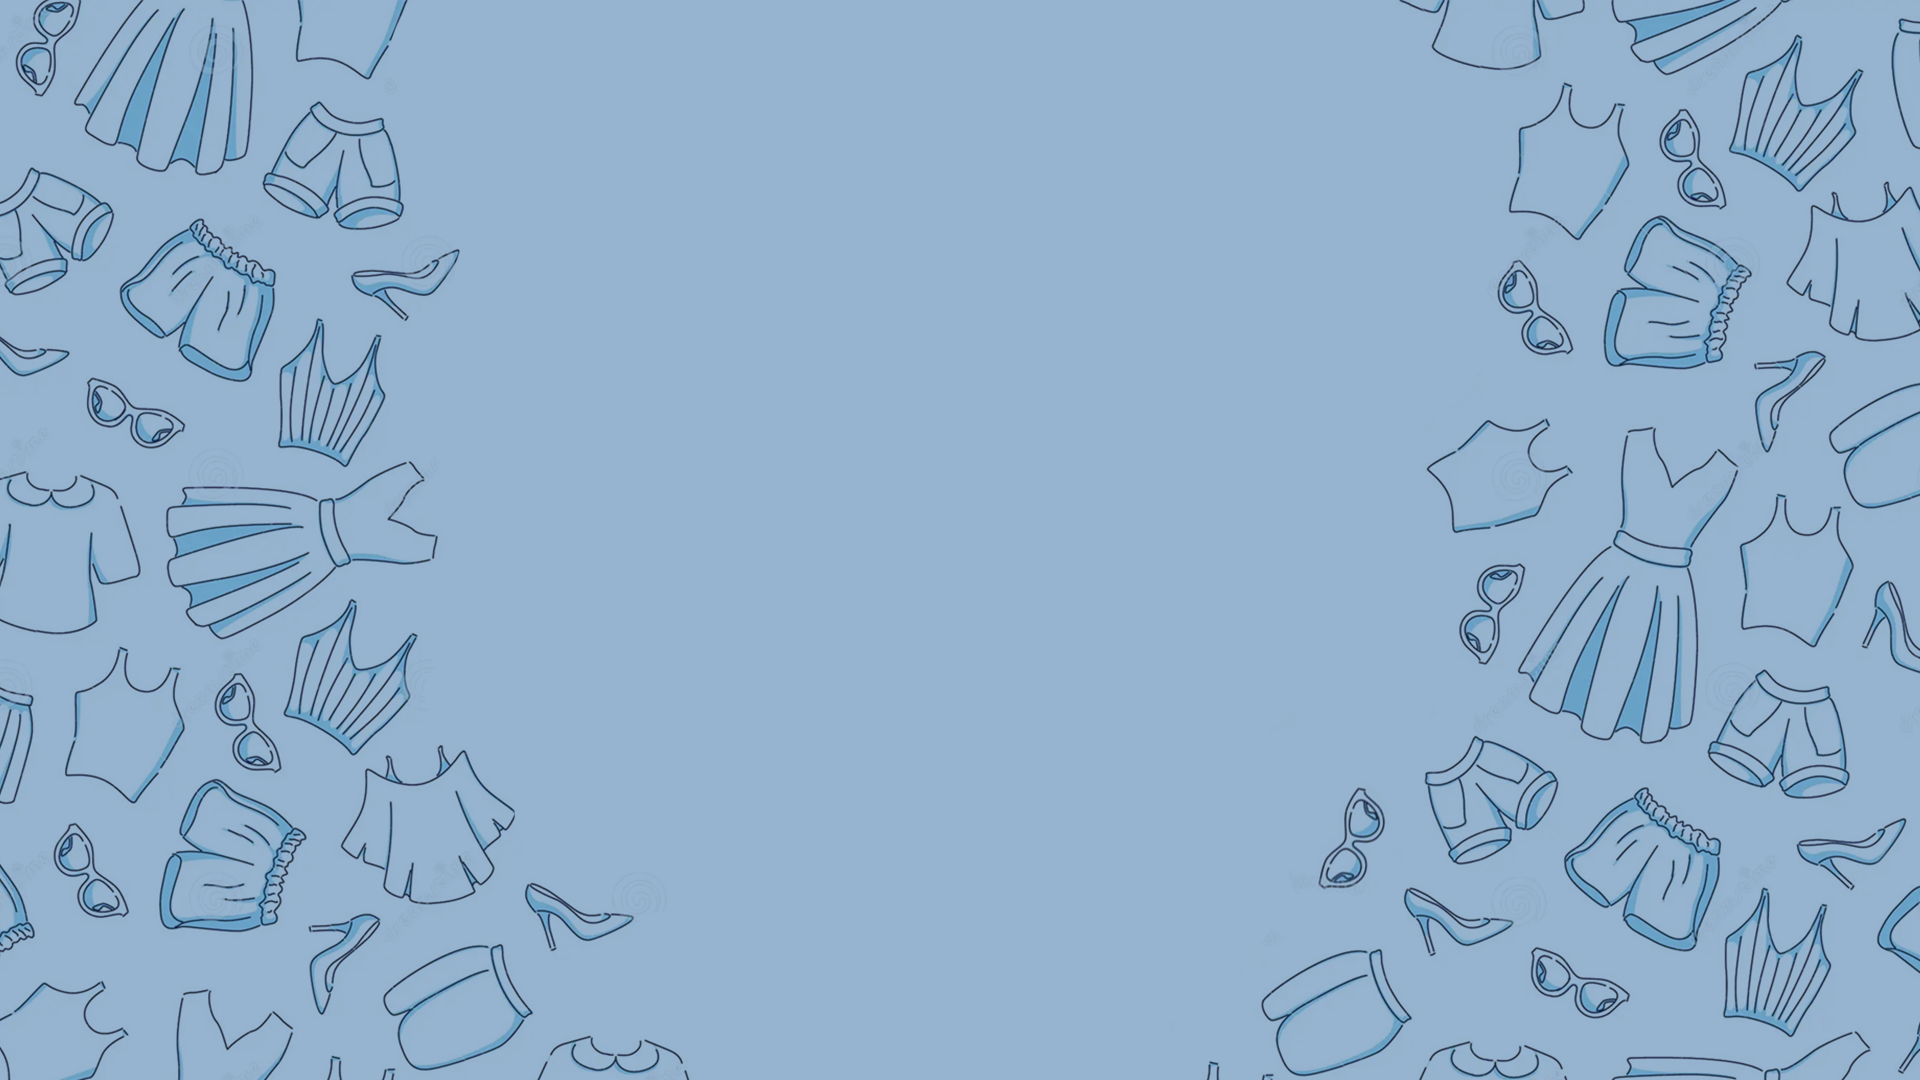
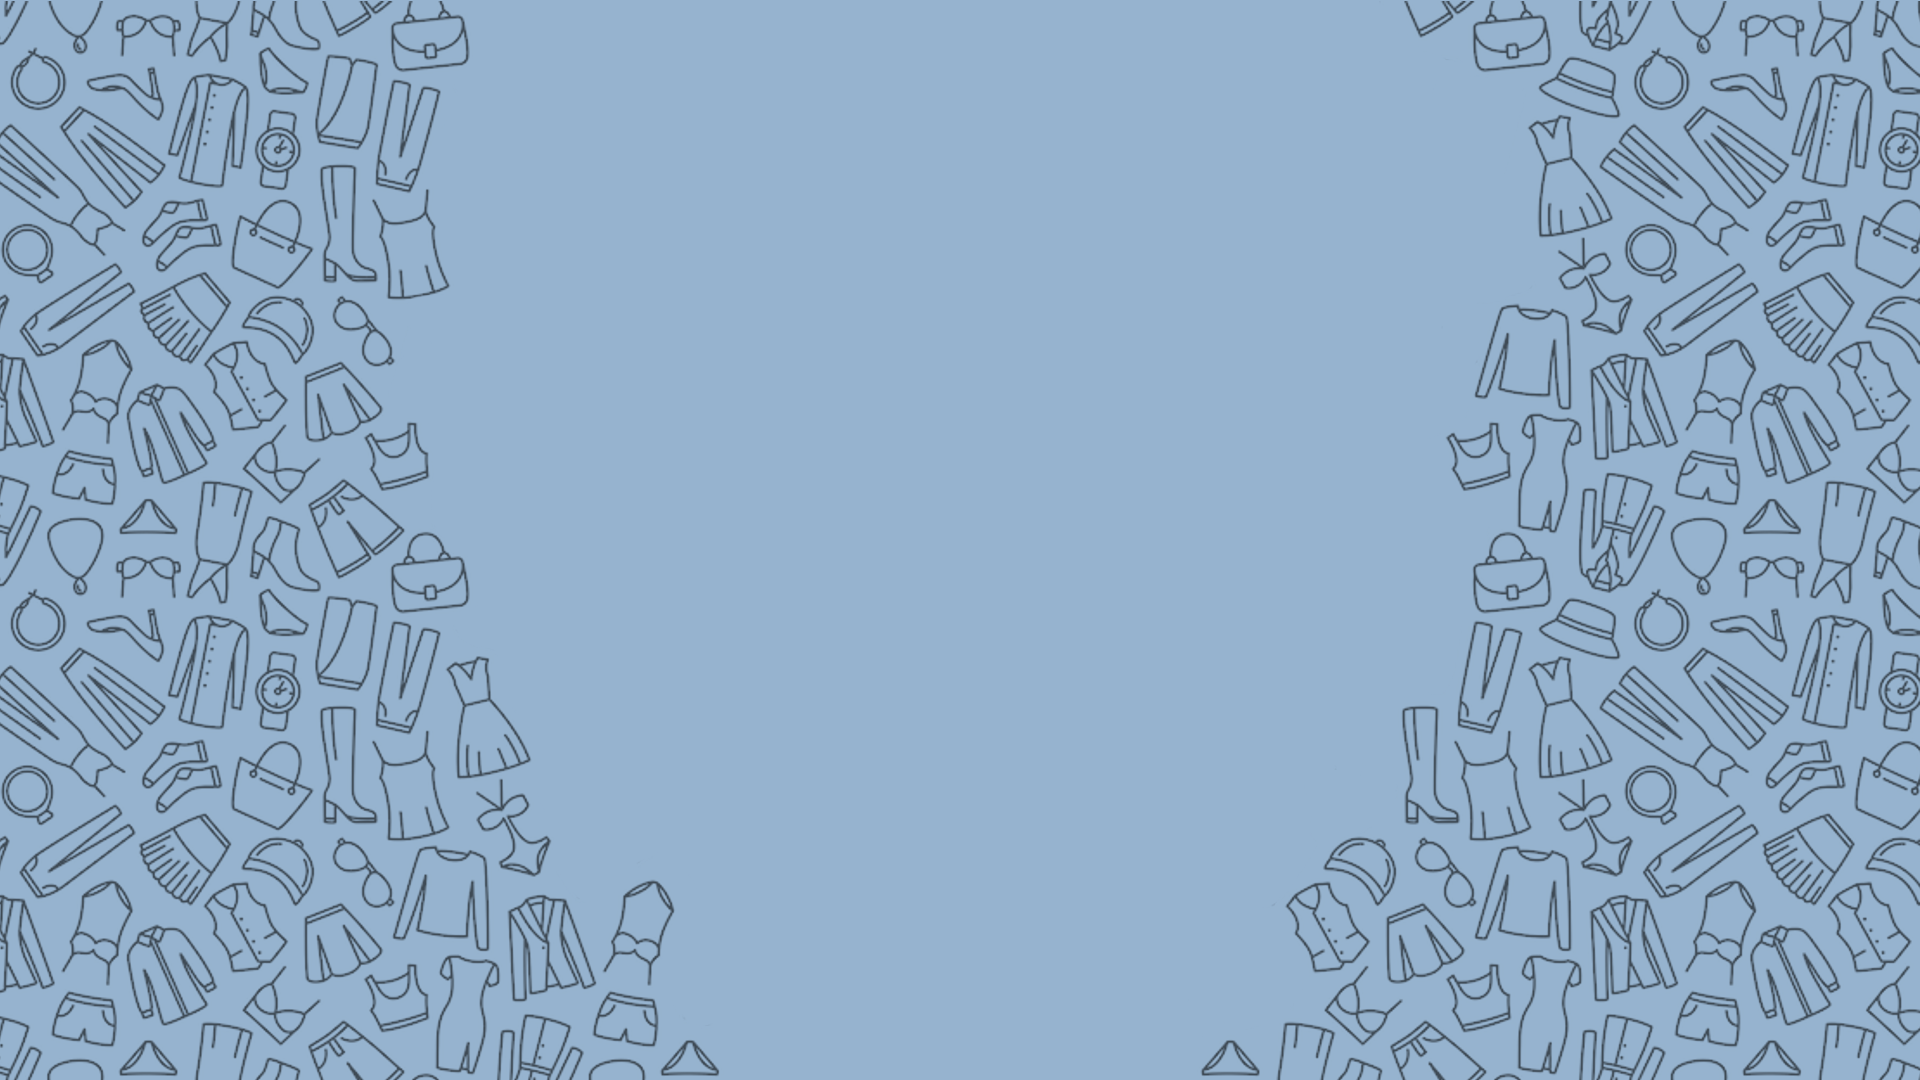
Update

Changed region(s): [[0.625, 0.0, 1.0, 1.0], [0.0, 0.0, 0.375, 1.0]]

diff --git a/main.py b/main.py
@@ -154,10 +154,6 @@ screen = Tk()
 w = screen.winfo_screenwidth()
 h = screen.winfo_screenheight()
 
-bg = Image.open('source/etc/bg.png')
-bg = bg.resize((w, h))
-bg = ImageTk.PhotoImage(bg)
-
 screen.attributes('-fullscreen', True)
 screen.configure(bg='#96b3cf')
 
@@ -167,6 +163,9 @@ def process_image(path):
     img = img.resize((round(w * (img.width / 1920)), round(h * (img.height / 1080))))
     img = ImageTk.PhotoImage(img)
     return img
+
+
+bg = process_image('source/etc/bg.png')
 
 # Категории выбора
 body_img = process_image('source/etc/body.png')
